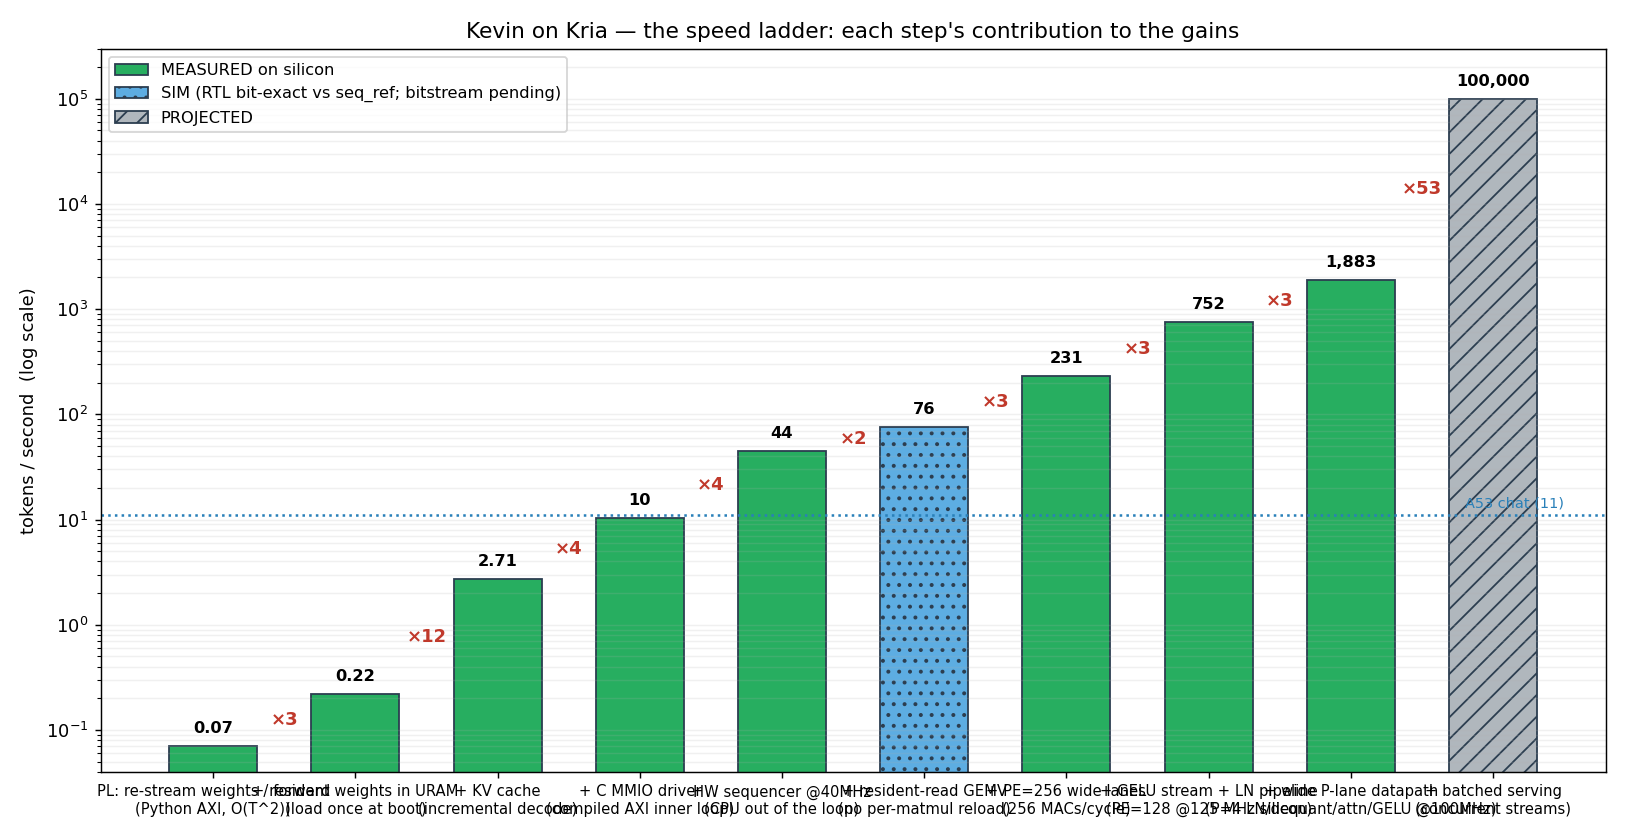
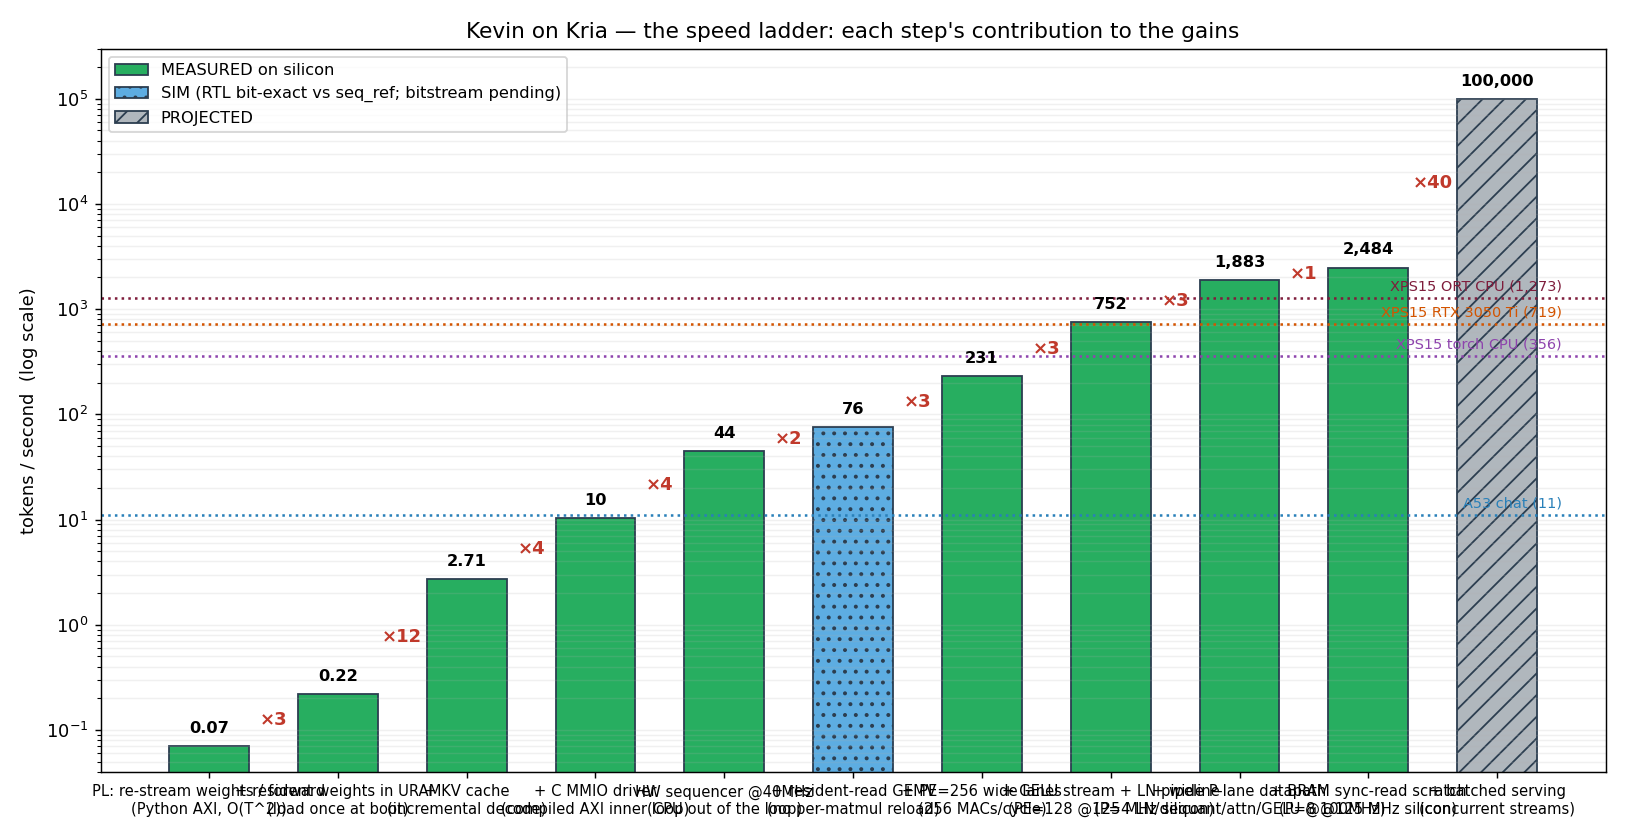
Stage 3 10k: 80 MHz rebuild MEASURED 2,483.9 tok/s @125 MHz 3/3 — new record; laptop refs added to progress ladder

Changed region(s): [[0.0615, 0.0625, 0.9846, 1.0]]

diff --git a/fabric/progress.py b/fabric/progress.py
@@ -39,13 +39,18 @@ LADDER = [
      "GELU per-elem stall + LN DSP cascade -> Fmax 50->125 MHz (STA-safe 71/430)"),
     ("+ wide P-lane datapath\n(P=4 LN/dequant/attn/GELU @100MHz)", 1882.7, "MEASURED",
      "the 1-elem/cyc serial loops -> P-wide (53,116 cyc/tok, 2.5x over 752)"),
+    ("+ BRAM sync-read scratch\n(P=8 @125 MHz silicon)", 2483.9, "MEASURED",
+     "LUTRAM datapath -> BRAM (50,324 cyc/tok; STA 79.5 MHz, clean to 125, breaks 142.9)"),
     ("+ batched serving\n(concurrent streams)", 100000.0, "PROJECTED",
      "per-stage idle — overlap units across streams"),
 ]
 
-# reference baselines (drawn as guide lines, not rungs)
+# reference baselines (drawn as guide lines, not rungs) — all the same model, B=1 greedy
 A53_CHAT = 11.0          # MEASURED: the pure-A53 char chat
 A53_BENCH = 177.8        # MEASURED: the A53 raw INT4 GEMV microbench
+XPS_CPU = 356.0          # MEASURED: XPS15 PyTorch KV decode (CPU, ctx 256)
+XPS_GPU = 719.0          # MEASURED: XPS15 RTX 3050 Ti, fastest torch mode (full recompute)
+XPS_CPU_OPT = 1273.0     # MEASURED: XPS15 ONNX Runtime KV, 4 threads, Kevin ctx 64
 
 
 def print_table():
@@ -58,7 +63,8 @@ def print_table():
         print(f"{one:52s} {tps:>10,.2f} {mult:>8s}  {tag}   (removes: {removed})")
         prev = tps
     print(f"\nreference: A53 char chat = {A53_CHAT:.0f} tok/s, A53 INT4 GEMV bench = "
-          f"{A53_BENCH:.0f} tok/s (both MEASURED).")
+          f"{A53_BENCH:.0f} tok/s, XPS15 laptop: torch CPU {XPS_CPU:.0f} / RTX 3050 Ti "
+          f"{XPS_GPU:.0f} / ONNX Runtime CPU best {XPS_CPU_OPT:.0f} (all MEASURED).")
     print("note: the C-driver rung (10.35) ~= the A53 chat (11) — CPU-in-loop asymptotes "
           "to the A53; the HW sequencer (CPU OUT of the loop) is the leap that beats it. "
           "MEASURED on silicon, token-stream bit-exact, deterministic: 44.32 (baseline PE16) "
@@ -67,8 +73,10 @@ def print_table():
           "at 71 MHz=430 tok/s; it overclocks clean to 125, breaks at 142). The P-wide serial "
           "datapath (sequencer_vec, P=4/L=128, wide-word banking) is now MEASURED too: 1,882.7 "
           "tok/s @100 MHz, 3/3 bit-exact (53,116 cyc/token; STA closes 40 MHz, overclocks clean "
-          "to 100, marginal at 111). Next: BRAM-buffer rewrite -> P=8 + widen the GEMV boundary "
-          "-> ~10k (see WIDE-WORD-DATAPATH-LOG.md).")
+          "to 100, marginal at 111). BRAM sync-read scratch (P=8/L=128, TMAX=64): MEASURED "
+          "2,483.9 tok/s @125 MHz 3/3 (50,324 cyc/token; STA 79.5 MHz, breaks at 142.9) — beats "
+          "an XPS15 laptop on the same model (ORT CPU 1,273 best, RTX 3050 Ti 719: launch-bound). "
+          "Next: widen the GEMV boundary -> ~10k (see WIDE-WORD-DATAPATH-LOG.md).")
 
 
 def plot(path):
@@ -106,10 +114,17 @@ def plot(path):
                         fontweight="bold")
         prev = v
 
-    # baselines
-    ax.axhline(A53_CHAT, color="#2980b9", ls=":", lw=1.4)
-    ax.text(len(LADDER) - 0.5, A53_CHAT * 1.1, f"A53 chat ({A53_CHAT:.0f})",
-            color="#2980b9", fontsize=8, ha="right", va="bottom")
+    # baselines — the references to beat (same model, B=1 greedy decode)
+    refs = [
+        (A53_CHAT, f"A53 chat ({A53_CHAT:.0f})", "#2980b9"),
+        (XPS_CPU, f"XPS15 torch CPU ({XPS_CPU:.0f})", "#8e44ad"),
+        (XPS_GPU, f"XPS15 RTX 3050 Ti ({XPS_GPU:.0f})", "#d35400"),
+        (XPS_CPU_OPT, f"XPS15 ORT CPU ({XPS_CPU_OPT:,.0f})", "#7f1d3c"),
+    ]
+    for yv, lbl, col in refs:
+        ax.axhline(yv, color=col, ls=":", lw=1.4)
+        ax.text(len(LADDER) - 0.5, yv * 1.1, lbl,
+                color=col, fontsize=8, ha="right", va="bottom")
 
     ax.set_xticks(x)
     ax.set_xticklabels(labels, fontsize=8.2)

diff --git a/fabric/stage3/WIDE-WORD-DATAPATH-LOG.md b/fabric/stage3/WIDE-WORD-DATAPATH-LOG.md
@@ -336,3 +336,25 @@ factor over its 20.9 ns crit path) and bought only 5 % cycles back. The first 10
 passed cold then failed warm — only multi-run sweeps count. Next: rebuild constrained at
 80 MHz so placement actually tightens the BRAM read paths — silicon @100 MHz × 50,324 cycles
 would be 1,987 tok/s.
+
+### The 80 MHz rebuild — NEW RECORD (MEASURED)
+
+Same RTL, constraint 40 → 80 MHz: placement tightened the BRAM paths from 20.9 ns to ~12.6 ns
+(STA WNS −0.071, 9 endpoints — accepted; the gate is the board). Sweep, all 3/3 deterministic:
+
+| fclk | tok/s | match |
+|---|---|---|
+| 100 MHz | 1,987.1 | ✓ 3/3 |
+| 111.1 MHz | 2,207.9 | ✓ 3/3 |
+| **125 MHz** | **2,483.9** | ✓ **3/3** |
+| 142.9 MHz | (2,838.7) | ✗ 1/3 — not claimed |
+
+**Headline: 2,483.9 tok/s, bit-exact, CYCLES = 50,324 == sim, 3.3× over 752, 1.32× over the
+P=4 record.** Silicon/STA factor 1.57. The same constraint sweep on P=4 was never tried — the
+40 MHz constraint, not the LUTRAM datapath, was the previous ceiling.
+
+**Laptop reference (same model, MEASURED on XPS15):** PyTorch CPU 356, RTX 3050 Ti 719 (full;
+KV 654 — launch-bound), ONNX Runtime KV ctx-256 748, ctx-64 best 1,273. The KV260 at ~6 W beats
+the laptop's best single-stream by 2.0× at ctx-64 (3.3× at ctx-256) — a 3M-param model is
+DDR/launch-bound on both CPU and GPU; on-chip residency wins on every machine, the laptop just
+has no fabric to be resident in.
